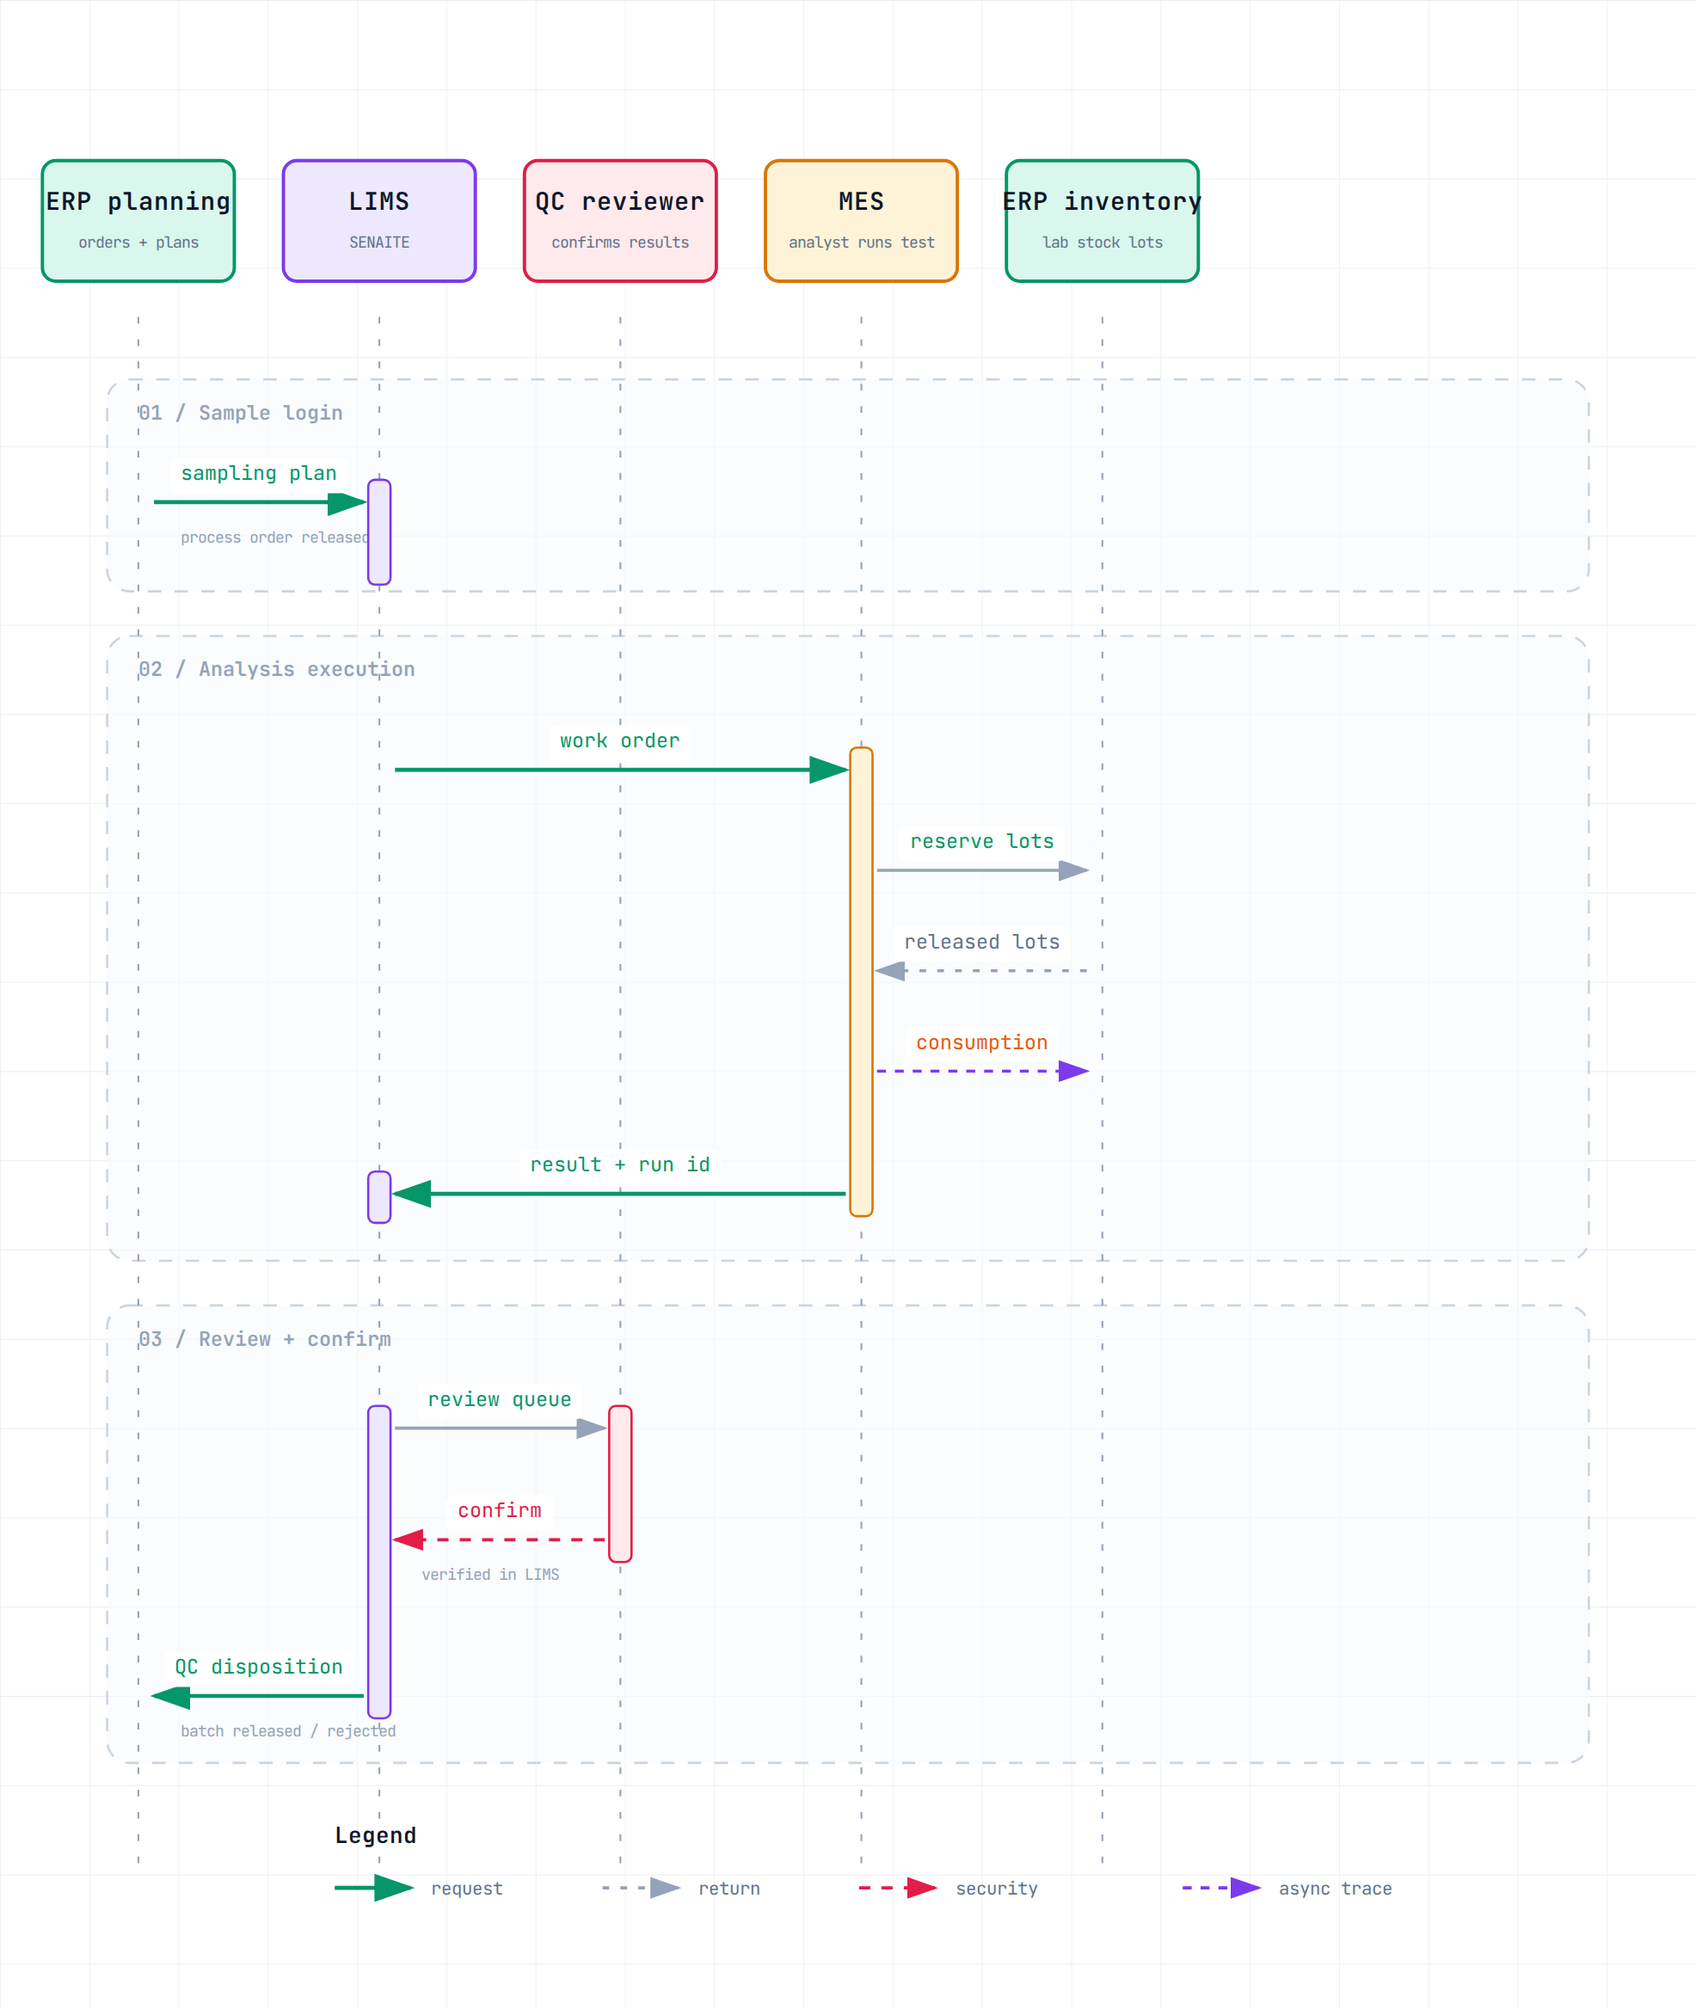
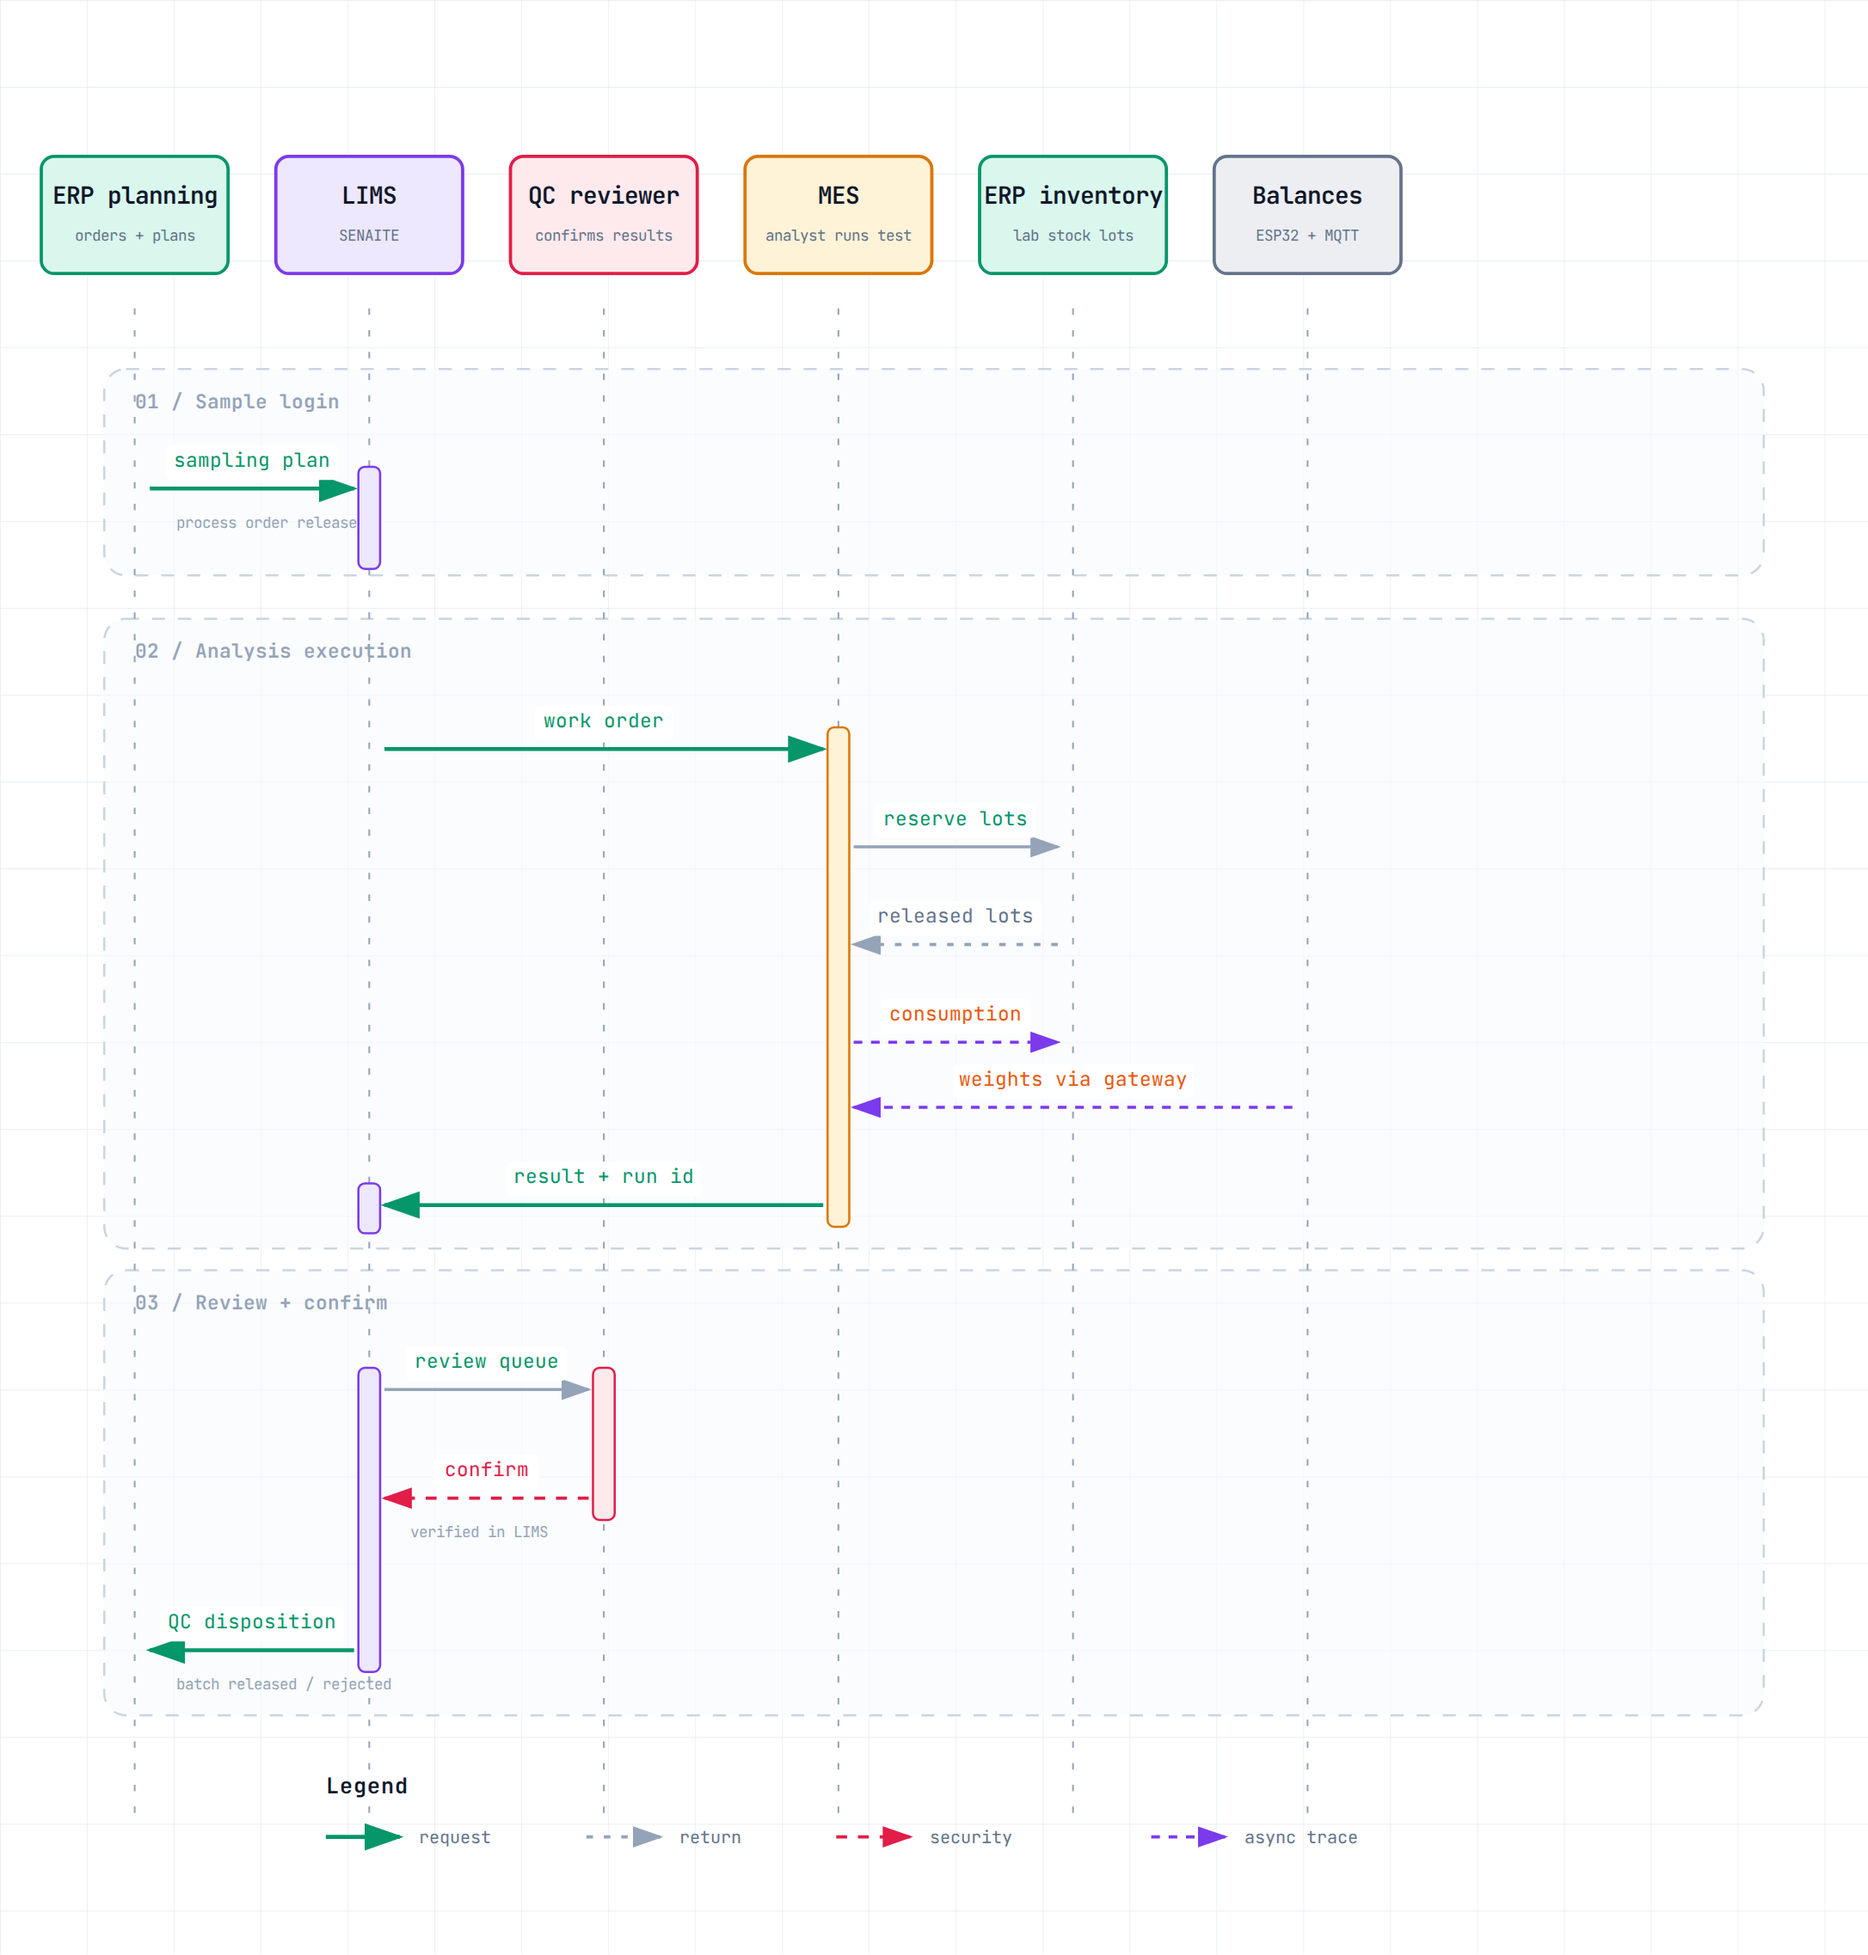
Reference balance device integration from MES
Weighing steps in MES test protocols take weights from the companion
Lab-ops device integration project (ESP32-S3 RS232 -> MQTT -> Django
parser schemas -> JSON API). Adds a Balances lifeline to the diagram.

diff --git a/docs/diagrams/integrations.html b/docs/diagrams/integrations.html
@@ -532,7 +532,7 @@
 
     <!-- Main Diagram -->
     <div class="diagram-container">
-      <svg viewBox="0 0 760 900" role="img" aria-label="ERP · LIMS · MES integrations — QC logs and confirms in SENAITE; MES executes each analysis and consumes stock (sequence diagram)">
+      <svg viewBox="0 0 860 900" role="img" aria-label="ERP · LIMS · MES integrations — QC logs and confirms in SENAITE; MES executes each analysis and consumes stock (sequence diagram)">
         <!-- Definitions -->
         <defs>
           <marker id="arrowhead" markerWidth="10" markerHeight="7" refX="9" refY="3.5" orient="auto">
@@ -556,13 +556,13 @@
         <rect width="100%" height="100%" fill="url(#grid)" />
 
         <!-- Time Segments -->
-        <rect x="48" y="170" width="664" height="95" rx="10" class="c-lane" stroke-width="1"/>
+        <rect x="48" y="170" width="764" height="95" rx="10" class="c-lane" stroke-width="1"/>
         <text x="62" y="188" class="t-dim" font-size="9" font-weight="600">01 / Sample login</text>
 
-        <rect x="48" y="285" width="664" height="280" rx="10" class="c-lane" stroke-width="1"/>
+        <rect x="48" y="285" width="764" height="290" rx="10" class="c-lane" stroke-width="1"/>
         <text x="62" y="303" class="t-dim" font-size="9" font-weight="600">02 / Analysis execution</text>
 
-        <rect x="48" y="585" width="664" height="205" rx="10" class="c-lane" stroke-width="1"/>
+        <rect x="48" y="585" width="764" height="205" rx="10" class="c-lane" stroke-width="1"/>
         <text x="62" y="603" class="t-dim" font-size="9" font-weight="600">03 / Review + confirm</text>
 
         <!-- Lifelines -->
@@ -571,6 +571,7 @@
         <path d="M 278 142 L 278 835" class="a-default" stroke-width="0.8" stroke-dasharray="3,7"/>
         <path d="M 386 142 L 386 835" class="a-default" stroke-width="0.8" stroke-dasharray="3,7"/>
         <path d="M 494 142 L 494 835" class="a-default" stroke-width="0.8" stroke-dasharray="3,7"/>
+        <path d="M 602 142 L 602 835" class="a-default" stroke-width="0.8" stroke-dasharray="3,7"/>
 
         <!-- Messages -->
         <path d="M 69 225 L 163 225" class="a-emphasis" stroke-width="1.8" marker-end="url(#arrowhead-emphasis)"/>
@@ -590,13 +591,17 @@
         <rect x="400.2" y="415" width="79.60000000000001" height="16" rx="3" class="c-mask"/>
         <text x="440" y="425" class="t-muted" font-size="9" text-anchor="middle">released lots</text>
 
+        <path d="M 595 510 L 393 510" class="a-dashed" stroke-width="1.4" marker-end="url(#arrowhead-dashed)"/>
+        <rect x="438.6" y="490" width="110.8" height="16" rx="3" class="c-mask"/>
+        <text x="494" y="500" class="t-messagebus" font-size="9" text-anchor="middle">weights via gateway</text>
+
         <path d="M 393 480 L 487 480" class="a-dashed" stroke-width="1.4" marker-end="url(#arrowhead-dashed)"/>
         <rect x="405.4" y="460" width="69.2" height="16" rx="3" class="c-mask"/>
         <text x="440" y="470" class="t-messagebus" font-size="9" text-anchor="middle">consumption</text>
 
-        <path d="M 379 535 L 177 535" class="a-emphasis" stroke-width="1.8" marker-end="url(#arrowhead-emphasis)"/>
-        <rect x="233" y="515" width="90" height="16" rx="3" class="c-mask"/>
-        <text x="278" y="525" class="t-backend" font-size="9" text-anchor="middle">result + run id</text>
+        <path d="M 379 555 L 177 555" class="a-emphasis" stroke-width="1.8" marker-end="url(#arrowhead-emphasis)"/>
+        <rect x="233" y="535" width="90" height="16" rx="3" class="c-mask"/>
+        <text x="278" y="545" class="t-backend" font-size="9" text-anchor="middle">result + run id</text>
 
         <path d="M 177 640 L 271 640" class="a-default" stroke-width="1.4" marker-end="url(#arrowhead)"/>
         <rect x="186.8" y="620" width="74.4" height="16" rx="3" class="c-mask"/>
@@ -615,10 +620,10 @@
         <!-- Activations -->
         <rect x="165" y="215" width="10" height="47" rx="3" class="c-mask"/>
         <rect x="165" y="215" width="10" height="47" rx="3" class="c-database" stroke-width="1"/>
-        <rect x="381" y="335" width="10" height="210" rx="3" class="c-mask"/>
-        <rect x="381" y="335" width="10" height="210" rx="3" class="c-cloud" stroke-width="1"/>
-        <rect x="165" y="525" width="10" height="23" rx="3" class="c-mask"/>
-        <rect x="165" y="525" width="10" height="23" rx="3" class="c-database" stroke-width="1"/>
+        <rect x="381" y="335" width="10" height="230" rx="3" class="c-mask"/>
+        <rect x="381" y="335" width="10" height="230" rx="3" class="c-cloud" stroke-width="1"/>
+        <rect x="165" y="545" width="10" height="23" rx="3" class="c-mask"/>
+        <rect x="165" y="545" width="10" height="23" rx="3" class="c-database" stroke-width="1"/>
         <rect x="165" y="630" width="10" height="140" rx="3" class="c-mask"/>
         <rect x="165" y="630" width="10" height="140" rx="3" class="c-database" stroke-width="1"/>
         <rect x="273" y="630" width="10" height="70" rx="3" class="c-mask"/>
@@ -649,6 +654,11 @@
         <rect x="451" y="72" width="86" height="54" rx="6" class="c-backend" stroke-width="1.5"/>
         <text x="494" y="94" class="t-primary" font-size="11" font-weight="600" text-anchor="middle">ERP inventory</text>
         <text x="494" y="111" class="t-muted" font-size="7" text-anchor="middle">lab stock lots</text>
+
+        <rect x="559" y="72" width="86" height="54" rx="6" class="c-mask"/>
+        <rect x="559" y="72" width="86" height="54" rx="6" class="c-external" stroke-width="1.5"/>
+        <text x="602" y="94" class="t-primary" font-size="11" font-weight="600" text-anchor="middle">Balances</text>
+        <text x="602" y="111" class="t-muted" font-size="7" text-anchor="middle">ESP32 + MQTT</text>
 
         <!-- Legend -->
         <text x="150" y="826" class="t-primary" font-size="10" font-weight="600">Legend</text>

diff --git a/README.md b/README.md
@@ -37,6 +37,16 @@ Samples confirmed per reviewer, time to confirm per week, and review minutes for
 Analysis-days lost by cause, analyst capacity vs demand per week, stock-outs, and aborted runs by cause and analyst.
 ![Stall dashboard](docs/renders/5-where-the-lab-stalls.png)
 
+## Device integration (balances → MES)
+
+Weighing steps in the MES test protocols (average weight, loss on drying, fill volume, assay sample weights) do not use typed-in numbers. The weights come from the balances through the companion project **[Lab-ops device integration](https://github.com/tautvydas-jocius/Lab-ops-device-integration)**:
+
+1. An ESP32-S3 reads each balance over RS232 and publishes the raw lines over MQTT.
+2. A Django service parses each line with a versioned parser schema stored in Postgres.
+3. MES pulls the parsed weight through its JSON API.
+
+Device configuration (baud rate, poll command, poll interval) is edited in the database and pushed to each device over a retained MQTT topic.
+
 ## Stories in the data
 
 The simulation (`--seed 42`) plants these events:
